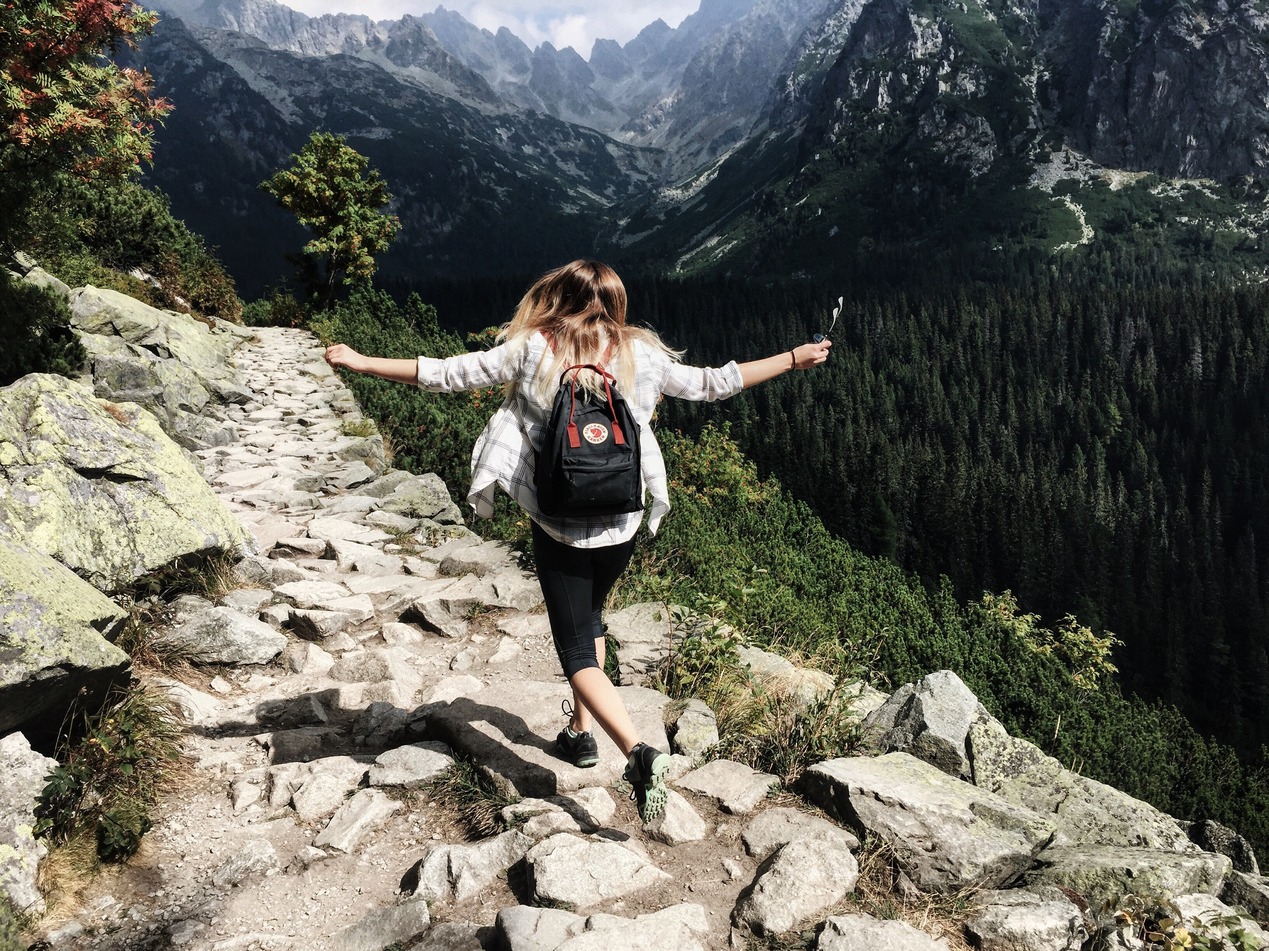
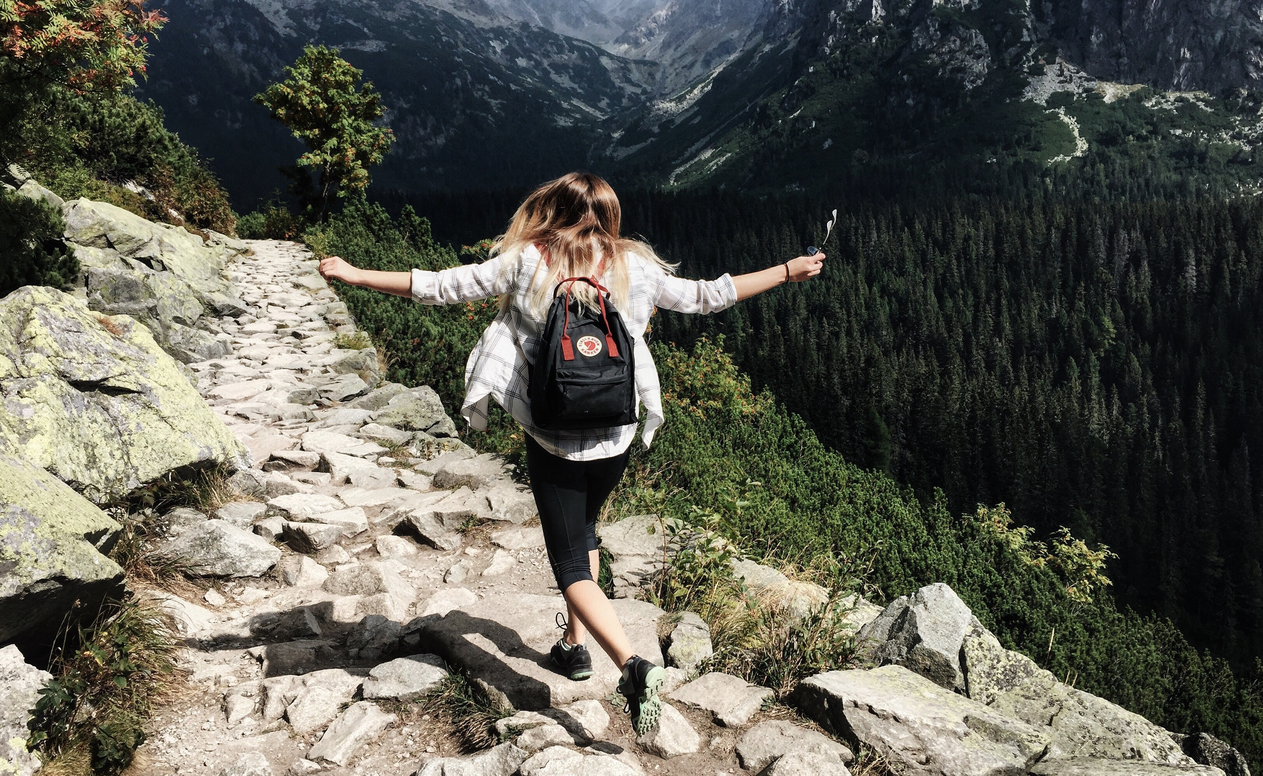
Style changes for landing activity and challenges;

diff --git a/fit-monkeys/src/pages/Landing/Landing.js b/fit-monkeys/src/pages/Landing/Landing.js
@@ -36,7 +36,7 @@ class Landing extends Component {
                             <Carousel.Caption>
                                 <h3 className="h3Color2">Join A Challenge</h3>
                                 <p></p>
-                                <ButtonToolbar>
+                                <ButtonToolbar className="btn-toolbar">
                                     <Link to="/login">
                                         <Button className="Btn" type="submit">Sign Up</Button>
                                     </Link>
@@ -52,7 +52,7 @@ class Landing extends Component {
                             <Carousel.Caption>
                                 <h3 className="h3Color">See What Your Friends Are Doing</h3>
                                 <p></p>
-                                <ButtonToolbar>
+                                <ButtonToolbar className="btn-toolbar">
                                     <Link to="/login">
                                         <Button className="Btn" type="submit">Sign Up</Button>
                                     </Link>
@@ -68,7 +68,7 @@ class Landing extends Component {
                             <Carousel.Caption>
                                 <h3>Track Your Activity</h3>
                                 <p></p>
-                                <ButtonToolbar>
+                                <ButtonToolbar className="btn-toolbar">
                                     <Link to="/login">
                                         <Button className="Btn" type="submit">Sign Up</Button>
                                     </Link>

diff --git a/fit-monkeys/src/pages/Landing/Landing.css b/fit-monkeys/src/pages/Landing/Landing.css
@@ -1,7 +1,13 @@
 
 .imgC {
-    height: 675px;
+    max-height: 675px;
+    width: 100%;
     text-align: center;
+    /* background: url('backgroundimage.jpg') no-repeat center center fixed; */
+    -webkit-background-size: cover;
+    -moz-background-size: cover;
+    background-size: cover;
+    -o-background-size: cover;
 }
 
 .imgB {
@@ -28,7 +34,12 @@
 }
 
 .imgHero {
-   height: 675px;
+   max-height: 675px;
+   width: 100%;
+   -webkit-background-size: cover;
+   -moz-background-size: cover;
+   background-size: cover;
+   -o-background-size: cover;
 }
 
 .Btn {
@@ -45,6 +56,10 @@
 .Btn:hover {
     background-color: grey;
     color: white;
+  }
+
+  .btn-toolbar {
+      justify-content: center;
   }
 
   h3 {

diff --git a/fit-monkeys/src/components/ChallengeCard/ChallengeCard.css b/fit-monkeys/src/components/ChallengeCard/ChallengeCard.css
@@ -1,5 +1,5 @@
 .card {
-    background: #fff;
+    background: #b3c3dd;
     border-radius: 2px;
     height: 385px;
     margin: 1rem;
@@ -7,10 +7,21 @@
     width: 325px;
     box-shadow: 0 3px 6px #999, 0 3px 6px #999;
     text-align: left;
+    font-family: 'Roboto Condensed', sans-serif;
+    font-size: 20px;
+    font-weight: bold;
+    color: #37393d;
+  }
+
+  strong {
+    color: black;
+    font-size: 18px;
+    font-family: 'Roboto Condensed', sans-serif;
   }
   
   .card > .img-container {
     height: 60%;
+    height: 200px;
     overflow: hidden;
     text-align: center;
     background:white;

diff --git a/fit-monkeys/src/pages/AllActivities/AllACtivities.js b/fit-monkeys/src/pages/AllActivities/AllACtivities.js
@@ -1,5 +1,5 @@
 import React, { Component } from "react";
-import Jumbotron from "../../components/Jumbotron";
+// import Jumbotron from "../../components/Jumbotron";
 import Footer from "../../components/Footer";
 import Header from "../../components/Header";
 import ActsTable from "../../components/Table";
@@ -145,9 +145,9 @@ class AllActivities extends Component {
                         </a>    
                     </ActsTable>
                 ))} */}
-                <Footer>
+                {/* <Footer>
 
-                </Footer>
+                </Footer> */}
             </div>
         )
     }

diff --git a/fit-monkeys/src/pages/Challenges/Challenges.css b/fit-monkeys/src/pages/Challenges/Challenges.css
@@ -7,10 +7,23 @@
      /* color:rgb(59, 83, 100); */
      color: white;
      background: none;
-     background-image: url("../../Images/hike2.jpeg");
-     height: 350px;
+     background: url("../../Images/hike2.jpeg") no-repeat center center;
+     /* width: auto; */
+     /* background-repeat: no-repeat; */
+     height: 390px;
+     background-size: cover; 
+     width: 100%;
  }
 
  .wrapper {
      background: none;
  }
+ /* @media screen and (max-width: 600px) {
+    .navbar-brand {
+      float: none;
+      display: block;
+      font-size: 30px; 
+    }
+  } */
+
+ 

diff --git a/fit-monkeys/src/pages/Challenges/Challenges.js b/fit-monkeys/src/pages/Challenges/Challenges.js
@@ -49,7 +49,7 @@ class Challenge extends Component {
                 <Wrapper className="wrapper">
                
                     {this.state.card.map(card => (
-                        <ChallengeCard
+                        <ChallengeCard 
                             removeCard={this.removeCard}
                             id={card.id}
                             key={card.id}
